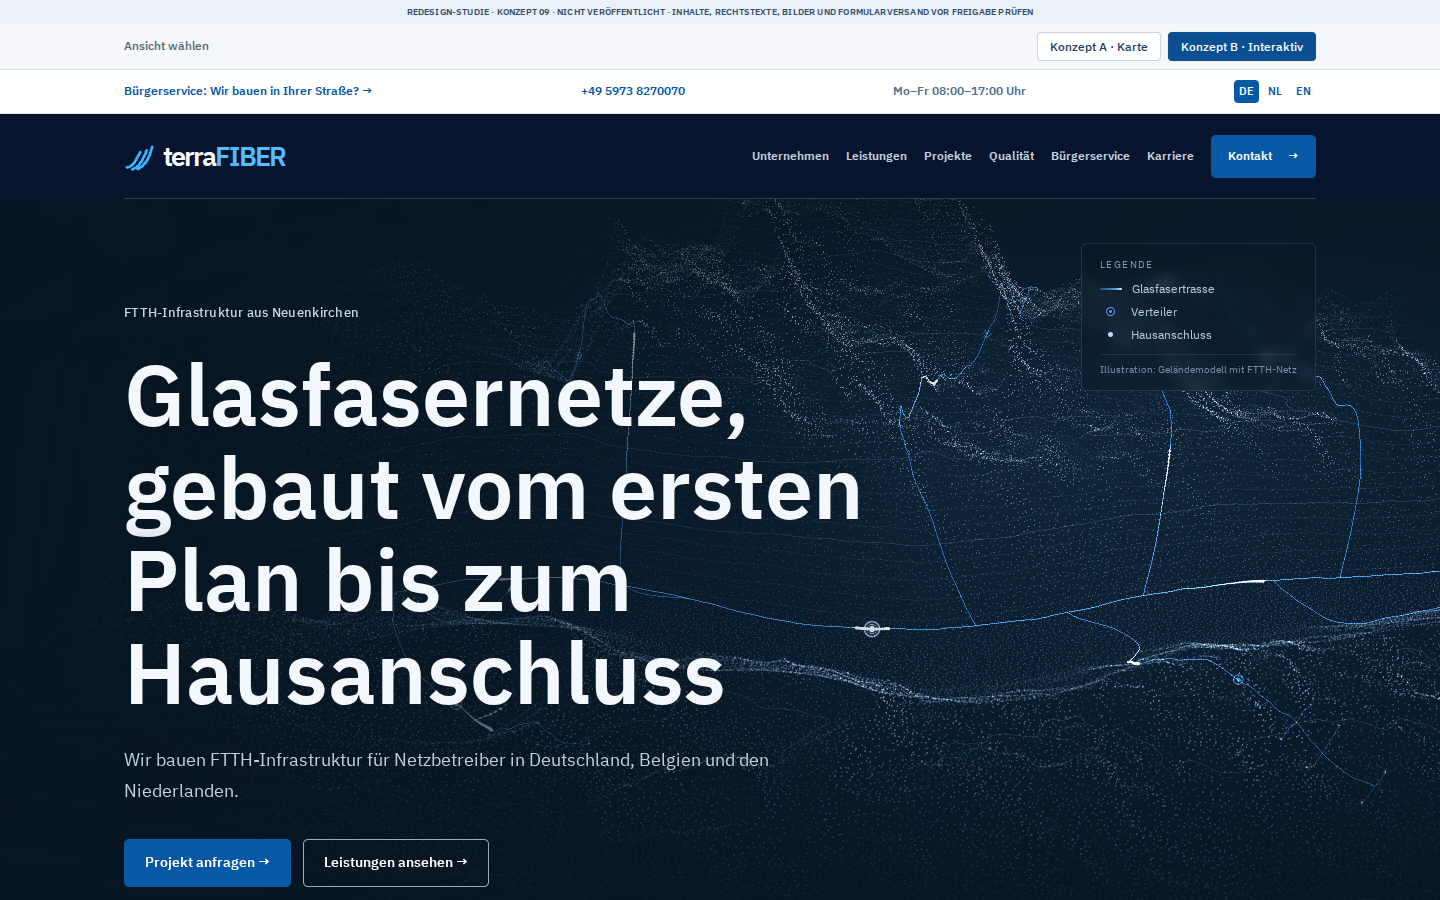
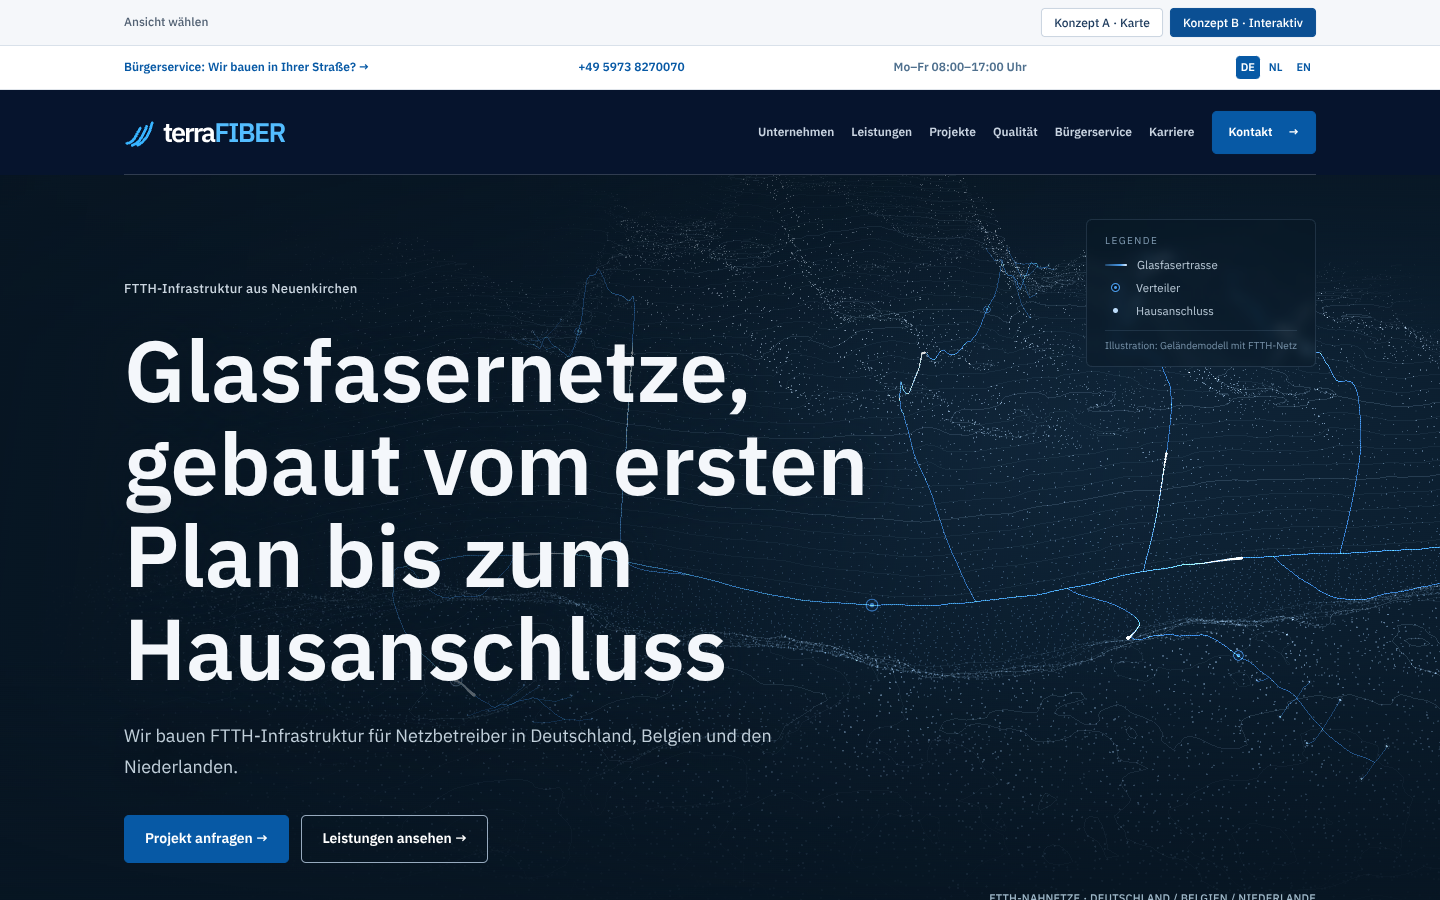
Hide redesign notice bar on all pages
noindex headers and meta tags remain unchanged.

Claude-Session: https://claude.ai/code/session_01DuYsCrabet9dWiQEisTUqQ

diff --git a/assets/v9.css b/assets/v9.css
@@ -230,3 +230,6 @@ footer .footer-bottom{border-top:1px solid #334358;color:#aab9cb}
 .gallery-strip-item img{height:225px;object-position:center}
 @media(max-width:760px){.site-photo-band{height:260px}.gallery-strip-item img{height:210px}}
 @media(max-width:540px){.site-photo-band{height:220px}.gallery-strip-item img{height:215px}}
+
+/* Redesign-Hinweisleiste ausgeblendet (11.10.2026). Markup bleibt; noindex bleibt aktiv. */
+.preview-bar{display:none!important}
